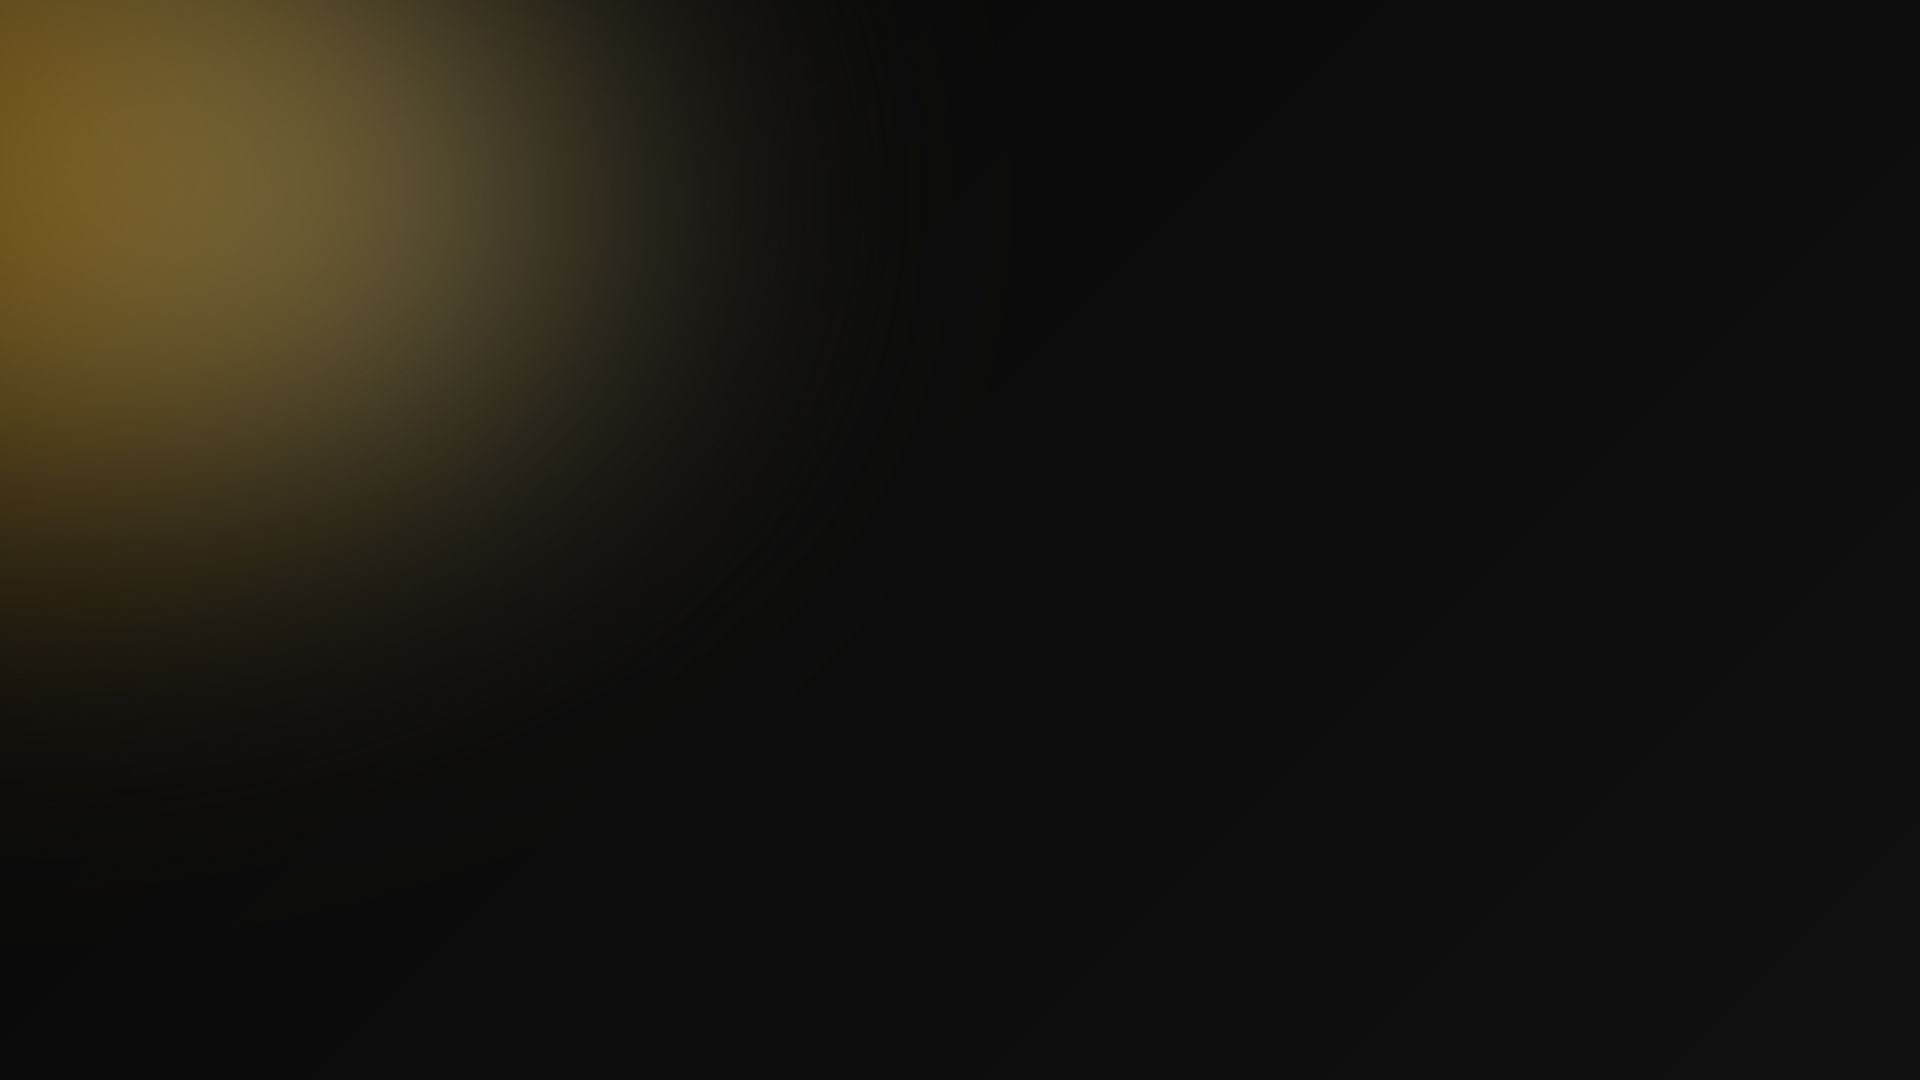
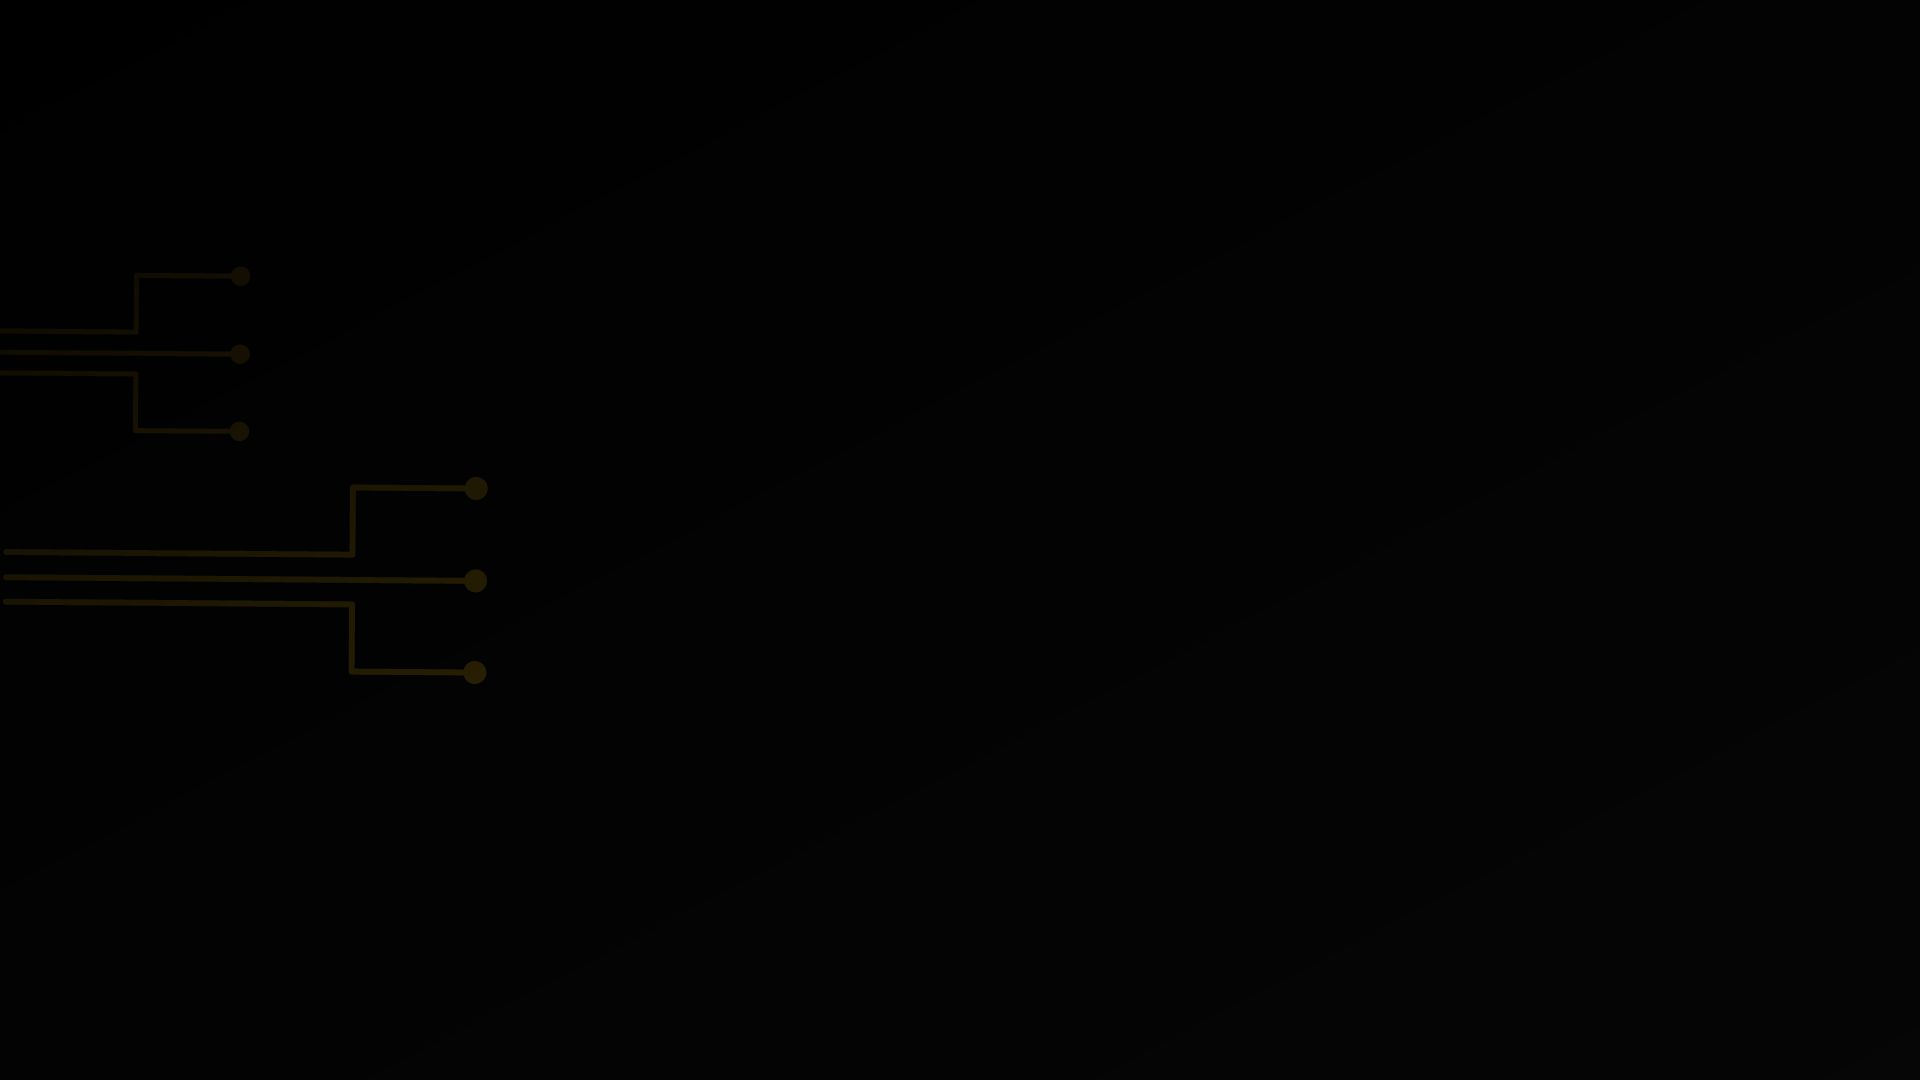
Foco en uso de grises y cambio de imágenes

Changed region(s): [[0.0, 0.0, 0.375, 0.6417]]

diff --git a/src/layouts/About/About.jsx b/src/layouts/About/About.jsx
@@ -7,16 +7,16 @@ const About = () => {
         <div className="about">
             <h2 className="about__title" data-aos="fade-up">Sobre mí</h2>
             <p className="about__text" data-aos="fade-up">
-                Mi camino comienza con el diseño web, especializándome en WordPress como freelance, pasando por 3 Agencias de Marketing y Estudios Creativos.
+                Soy un desarrollador de software enfocado en tecnologías web. 
                 <br/>
                 <br/>
-                Me propuse consolidar mis skills como programador con el fin de afrontar desafíos que realmente me inspirasen, desarrollando productos y experiencias digitales con tecnologías más modernas (pasando de WordPress/PHP a Headless WP con React y proyectos Full Stack JavaScript).
+                Suelo programar tanto del lado del cliente como del servidor, sin embargo, me especializo en Frontend, ya que me gusta tener un contacto más directo con los usuarios y complementar mis skills técnicas con formación en Diseño UX/UI.  
                 <br/>
                 <br/>
-                Luego de un tiempo desarrollando muchas cosas como freelance (plantillas de correo con HTML y CSS, webs desde cero, plugins y temas para WordPress, etcétera), me encontré con <a href='https://sensecontents.com/' target='blank' rel='noreferer'>Sense Contents</a>, empresa en la cual trabajo actualmente como Desarrollador Web y en la que he podido crear plataformas para proyectos en distintas áreas, siendo mi favorita la Divulgación Científica, creando webs como <a href='https://nucleomilenioeris.cl/' target='blank' rel='noreferer'>Nucleo Milenio ERIS</a> y <a href='https://genuniversal.cl/' target='blank' rel='noreferer'>Gen Universal</a>.
+                Actualmente estoy enfocado en React y en paralelo experimento con tecnologías para desarrollar sitios web inmersivos (Blender, Three.js, etcétera).
                 <br/>
                 <br/>
-                😍 ¡Me encanta lo que hago! 😍 Me divierto desarrollando soluciones creativas para las empresas, diseñando experiencias digitales y compartiendo mi conocimiento mediante asesorías, artículos y contenido en RRSS.
+                Me divierto creando productos y experiencias digitales desde cero en torno a temas que me apasionan y disfruto compartiendo mi conocimiento mediante asesorías, artículos y contenido en redes sociales.  
             </p>
         </div>
     </div>

diff --git a/src/layouts/Hero/Hero.css b/src/layouts/Hero/Hero.css
@@ -1,6 +1,6 @@
 .containerHero {
+    background-image: url('../../img/fondo3.jpg');
     background-color: var(--black1);
-    background-image: url(../../img/fondo.jpg);
     background-position: center;
     background-size: cover;
     background-attachment: fixed;
@@ -10,31 +10,33 @@
     padding: 180px 0px 100px 0px;
 }
 .hero {
-    padding-left: 100px;
+    padding: 72px 100px;
     display: grid;
     grid-template-columns: 1fr 1fr;
-    max-width: 1100px;
+    width: 100%;
+    max-width: 1000px;
     border-radius: 20px;
     align-content: center;
-    background-color: #1e1e1e50;
-    box-shadow: 0px 0px 15px #1010107a;
+    border: 1px solid var(--black3);
+    background-color: #1e1e1e70;
+    box-shadow: 0px 0px 15px #10101077;
+
 }
 .hero__info {
     display: flex;
     align-items: flex-start;
     flex-direction: column;
     justify-content: center;
-    padding-bottom: 30px;
 }
 .hero__title{
-    font-size: 115px;
+    font-size: 100px;
     font-weight: 500;
     line-height: 0.85em;
     margin: 0;
 }
 .hero__title span{
     text-decoration:underline;
-    color: var(--rosa1);
+    color: var(--gris2);
 
     display: block;
     border-right: 4px solid;
@@ -52,7 +54,6 @@
 }
 .hero__subtitle{
     font-size: 22px;
-    margin-top: 40px;
     color: var(--gris1);
 }
 #heroHand {
@@ -74,11 +75,11 @@
     }
 }
 .hero__subtitle--prev{
-    margin-bottom: 40px;
+    margin-bottom: 24px;
 }
 .hero__btn{
     display: inline-block;
-    margin-top: 48px;
+    margin-top: 60px;
     padding: 16px 40px;
     border-radius: 12px;
     font-family: 'Nunito Sans', sans-serif;
@@ -93,18 +94,14 @@
     padding: 15px 39px;
 }
 .hero__img {
-    height: 100%;
     display: flex;
-    align-items: flex-end;
+    align-items: center;
     justify-content: flex-end;
-    border-radius: 0 0 20px 0;
-    overflow: hidden;
     opacity: 100%;
 }
 .hero__img img {
-    border-bottom: 2px solid var(--rosa1);
-    border-right: 2px solid var(--rosa1);
-    border-radius: 0px 20px 20px 0px;
+    border-radius: 100%;
+    height: 380px;
 }
 .headerContainer, .containerHero, .containerAbout, .containerTechnologies, .containerProjects, .containerContact, .containerFooter {
     padding-left: 30px;

diff --git a/src/layouts/Hero/Hero.jsx b/src/layouts/Hero/Hero.jsx
@@ -1,5 +1,5 @@
 import React from 'react';
-import fernando from '../../img/fernando.png';
+import fernando from '../../img/fer11.jpg';
 import './Hero.css';
 
 const Hero = () => {
@@ -9,10 +9,10 @@ const Hero = () => {
                 <section className="hero__info">
                     <p className="hero__subtitle hero__subtitle--prev"> <span id="heroHand" className="hero__hand">👋</span>  ¡Hola! Soy Fernando</p>
                     <h1 className="hero__title">Frontend <span>Developer</span></h1>
-                    <p className="hero__subtitle">Enfocado en la creación de productos y experiencias digitales para proyectos que me inspiran.</p>
+                    {/*  <p className="hero__subtitle">Enfocado en la creación de productos y experiencias digitales para proyectos que me inspiran.</p>*/}
                     <div className="hero__buttons">
-                        <a className="hero__btn btn-primary"href="#sobre-mi">Echa un vistazo</a>
-                        <a className="hero__btn btn-secondary hero__btn--contact" href="#contacto">Ponte en contacto</a>
+                        <a className="hero__btn btn-primary"href="#sobre-mi">Mira mis proyectos</a>
+                        <a className="hero__btn btn-secondary hero__btn--contact" href="#contacto">Contáctame</a>
                     </div>
                 </section>
                 <div className="hero__img">

diff --git a/src/data/projects.js b/src/data/projects.js
@@ -1,4 +1,4 @@
-import fernandoGutzImg from '../img/proyectos/fernandogutz.png';
+import fernandoGutzImg from '../img/proyectos/fernandogutz.jpg';
 import pomotaskImg from '../img/proyectos/pomotask.png';
 import beDigitalImg from '../img/proyectos/beDigital.png';
 import delegaImg from '../img/proyectos/delega.png';
@@ -12,7 +12,7 @@ const listProjects = [
         "urlImg": godkoutImg,
         "altImg": "Godkout Web",
         "title": "Godkout.com",
-        "description": "Me apasiona el deporte desde que tengo memoria. Este sitio web es la base sobre la cual construyo y documento los distintos proyectos vinculados al entrenamiento físico.",
+        "description": "Me apasiona el entrenamiento físico desde que tengo memoria y quise crear algo en torno a ello. GODKOUT es una plataforma que busca profesionalizar el Street Workout (conocido popularmente como Calistenia), deporte que ha sido reconocido oficialmente en Chile en 2021. Busco poder vincular la plataforma con organizaciones de distintos continentes para que los atletas puedan competir globalmente.",
         "tech": "HTML5 - CSS3 - WordPress - WooCommerce - Elementor",
         "textBtn": "Visitar sitio",
         "urlBtn": "https://godkout.com/"

diff --git a/src/components/Header/Header.css b/src/components/Header/Header.css
@@ -7,7 +7,7 @@
     position: sticky;
     margin-bottom: -80px;
     top: 0;
-    background-color: #00000060;
+    background-color: #0000009d;
     box-shadow: 0px 0px 10px #10101069;
     border-radius: 0px 0px 30px 30px;
     z-index: 2;

diff --git a/src/layouts/Projects/Projects.css b/src/layouts/Projects/Projects.css
@@ -1,5 +1,5 @@
 .fondoProjects {
-    background-image: url(../../img/fondo.jpg);
+    background-image: url('../../img/fondo3.jpg');
     background-position: center;
     background-size: cover;
     background-attachment: fixed;

diff --git a/src/components/ProjectItem/ProjectItem.css b/src/components/ProjectItem/ProjectItem.css
@@ -5,7 +5,7 @@
 .project__tag {
     padding: 5px 30px;
     border-radius: 20px 20px 0px 0px;
-    background-color: #c09514;
+    background-color: var(--gris2);
     color: var(--black1);
 }
 .project__img {

diff --git a/src/components/Footer/Footer.css b/src/components/Footer/Footer.css
@@ -1,5 +1,5 @@
 .containerFooter {
-    background-color: #030303;
+    background-color: #070707;
     padding: 15px 0px;
     display: flex;
     justify-content: center;
